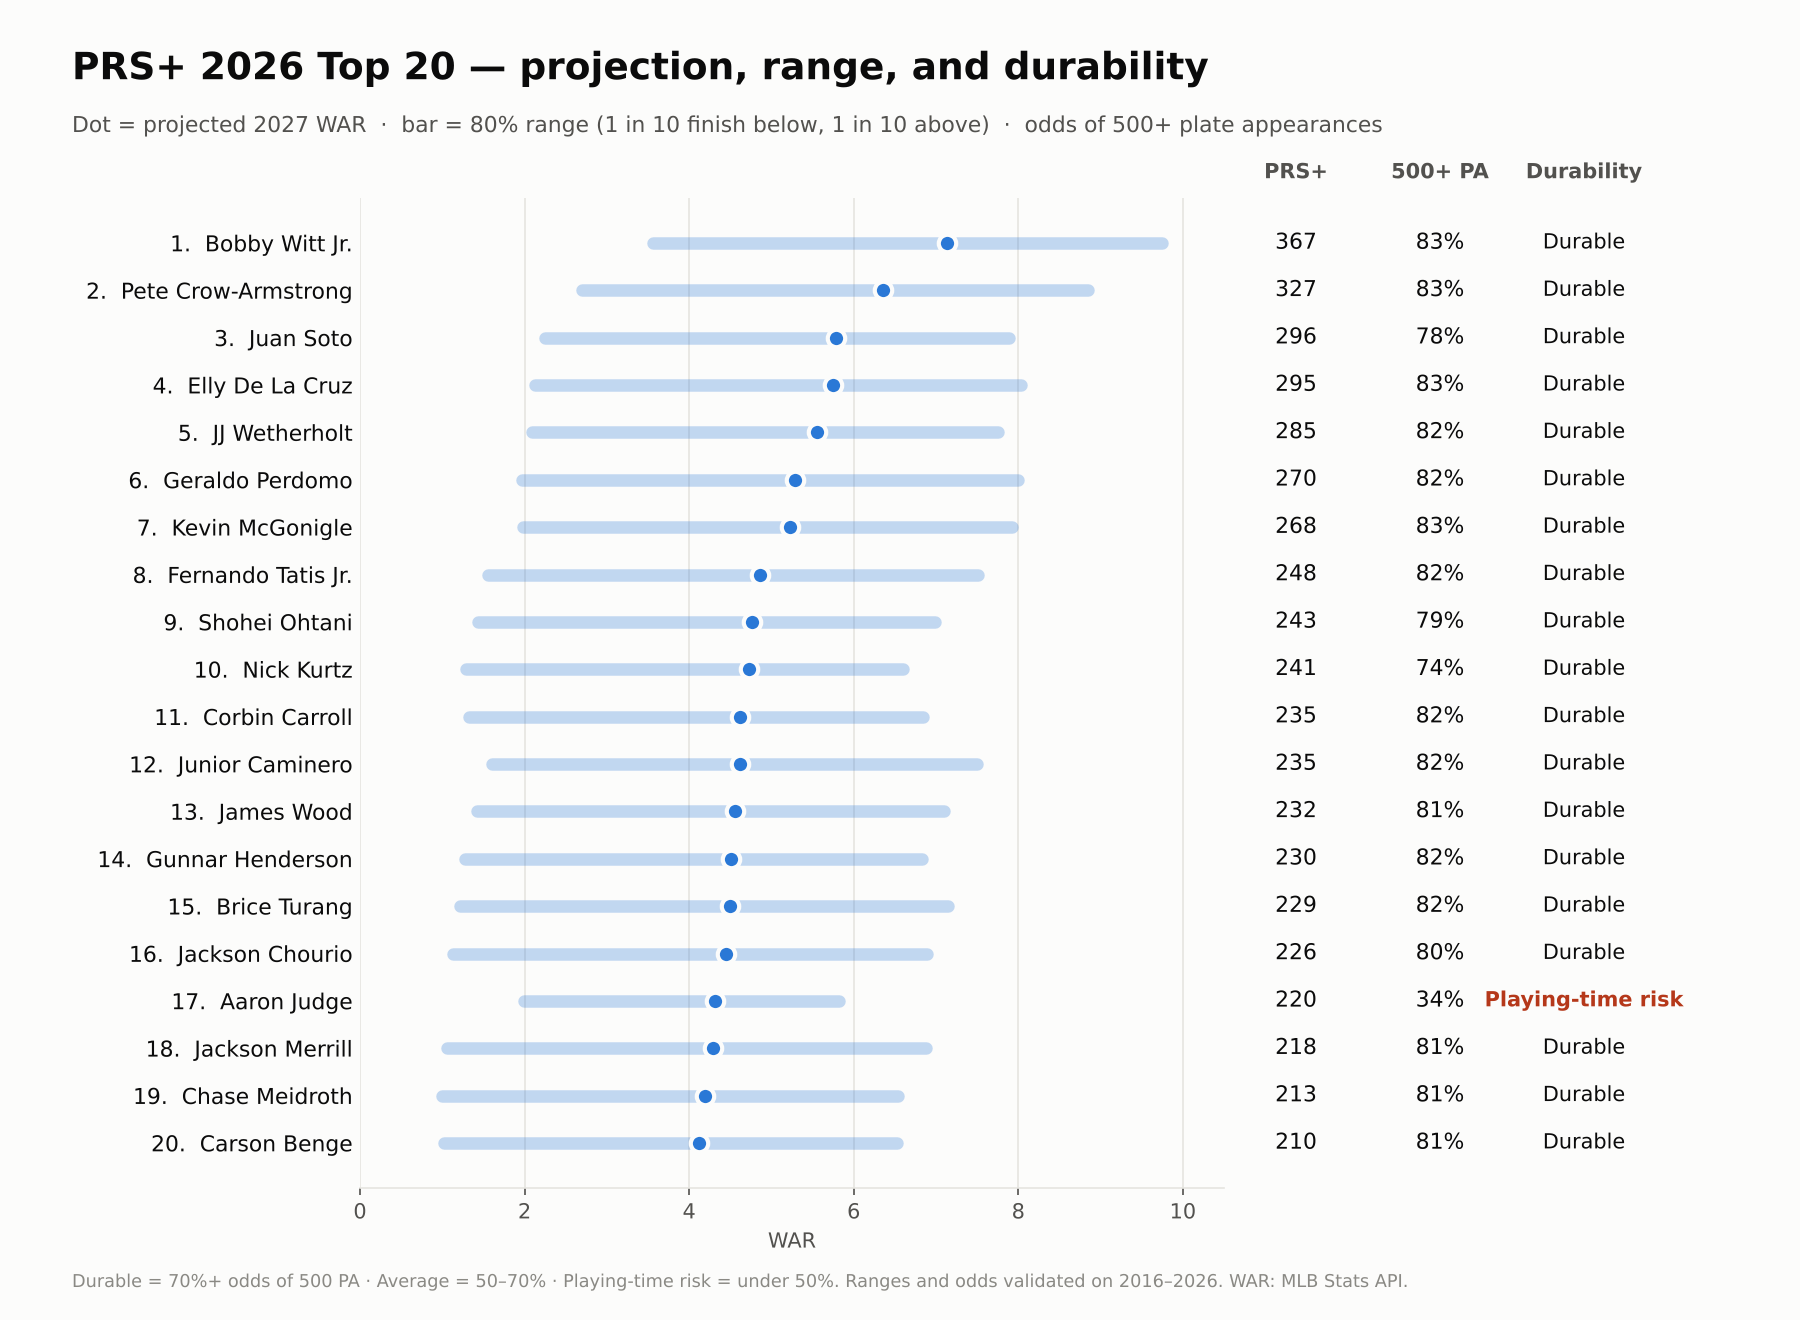
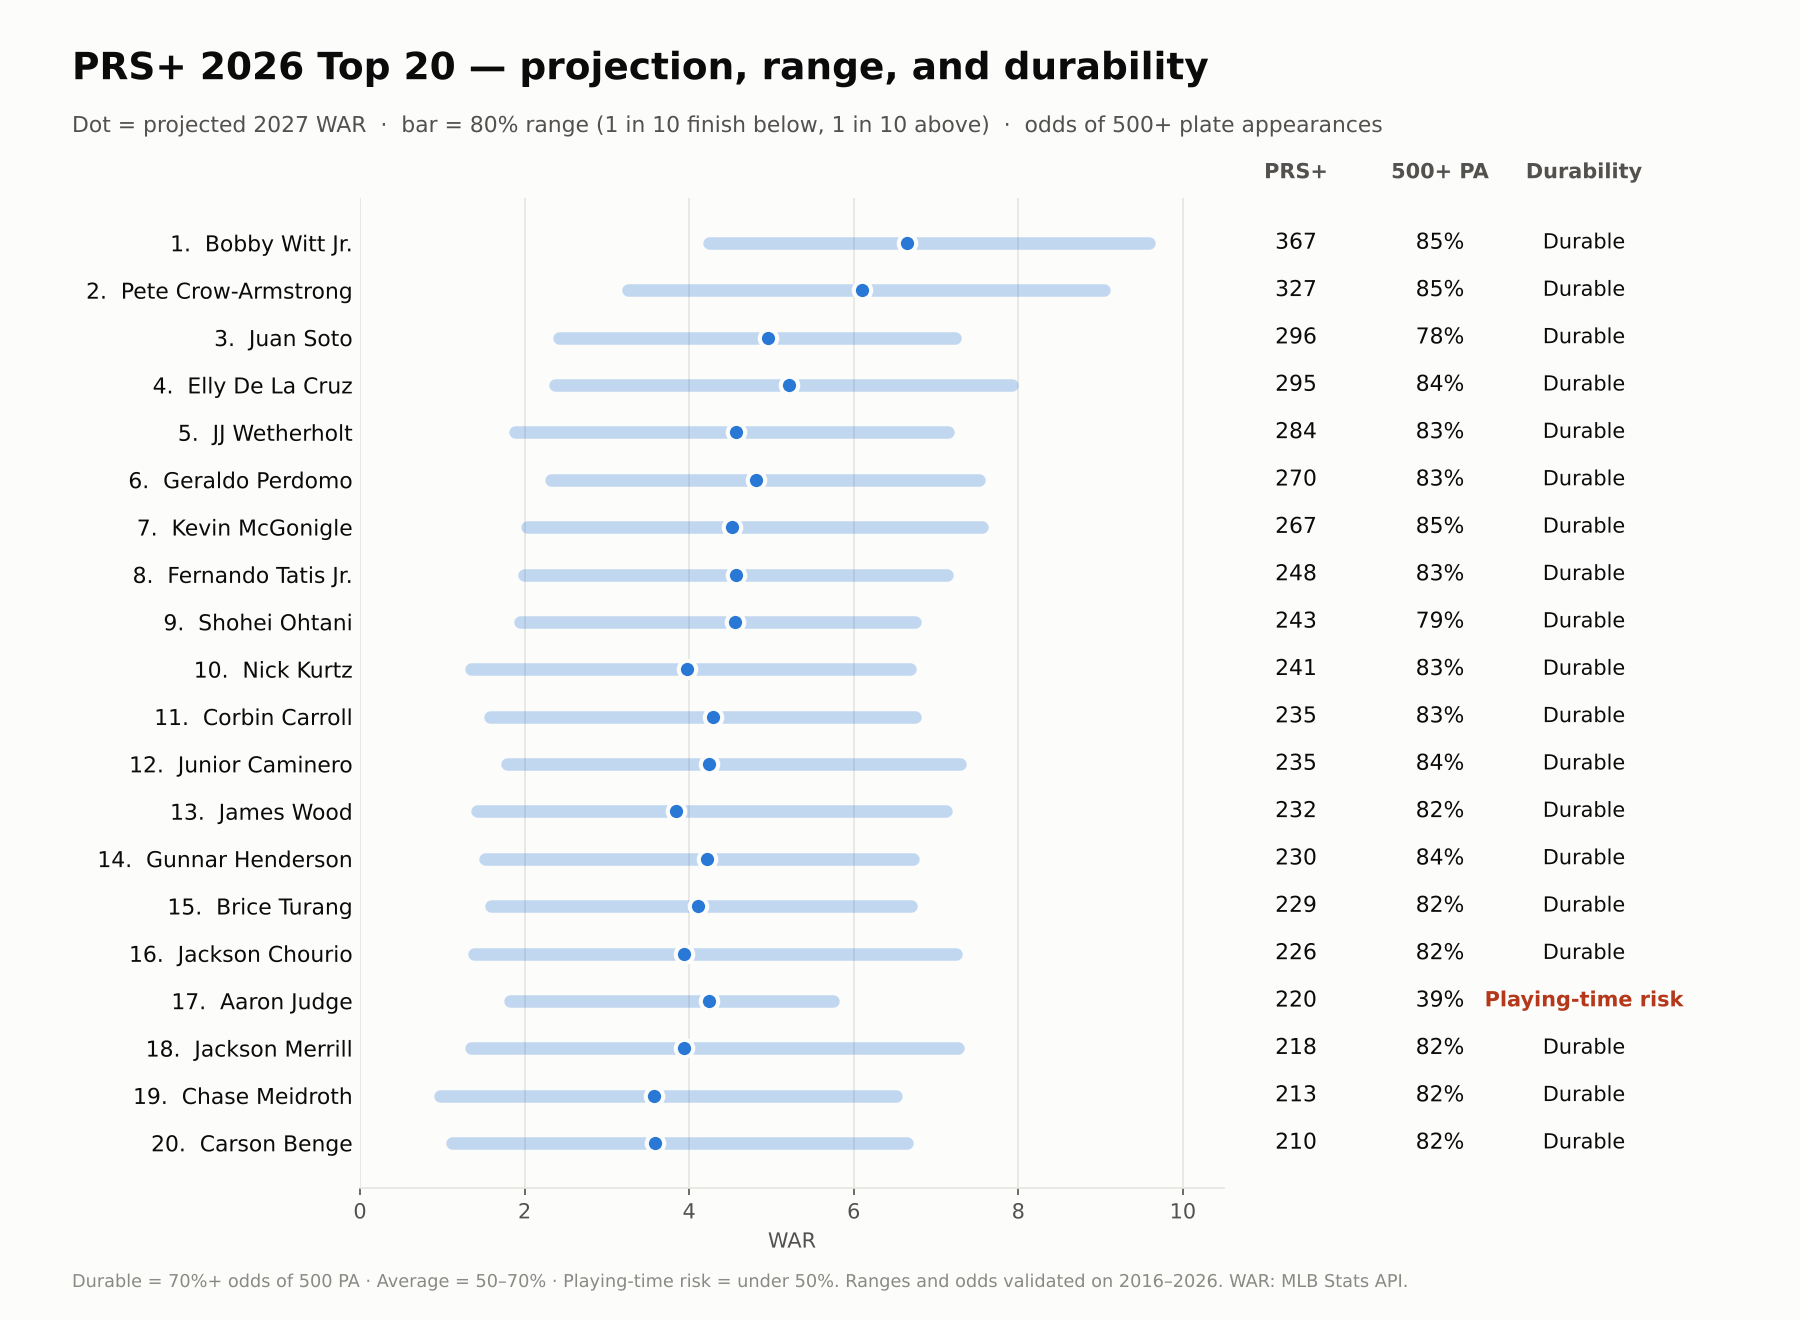
PRS v7 / PRS-P v2: Marcel blend, IL-history odds, recalibrated ranges
README documents the blended projections, injured-list history in the
playing-time/workload odds, updated 2016-2026 range coverage, and remaining
gaps. Refreshed 2026 ranking, risk, and validation charts.

Claude-Session: https://claude.ai/code/session_015YDihW75QbFBqSqo9e9Z9f

diff --git a/prs/PRS_README.md b/prs/PRS_README.md
@@ -57,6 +57,8 @@ All settings were tuned on **2006–2015 only**. The **2016–2026** seasons wer
 - **No age bias.** Marcel underrates players 23 and under by about 0.6 WAR and overrates players 34+ by about 0.35 WAR; PRS+ misses every age group by about the same small amount.
 - **Where it's even:** at the very top of the rankings PRS+ and Marcel identify stars about equally well, and neither can foresee true breakouts — players whose past numbers gave no hint of a 6–7 WAR season.
 
+**Blended projection (v7).** The PRS+ index is pure PRS. The *projected WAR* next to it is now **65% PRS + 35% Marcel**, with each converted to WAR using its 2006–2015 fit. The two systems make different mistakes, so the blend is a little steadier than either one alone. On 2016–2026 the blend improved correlation from 0.669 to 0.673 and the average miss from 0.857 to 0.853 WAR, and it beat PRS alone in 8 of 11 seasons. It's a small gain, but a consistent one.
+
 ## Risk: Range and Durability
 
 Two players can share the same projection with very different risk. Every PRS+ forecast comes with:
@@ -70,9 +72,10 @@ Two players can share the same projection with very different risk. Every PRS+ f
 
 ![Risk validation](PRS_Risk_Validation.png)
 
-- **82% of actual outcomes landed inside the 80% ranges** — 79–84% for every projection tier and every age group, and 80–86% in every full season (2020's 60-game season: 72%).
-- **Playing-time odds match reality:** players given 75% reached 500 PA 77% of the time; players given 32%, 32% of the time.
-- **Durability separates playing time:** Durable players reached 500 PA 79% of the time and fell under 300 PA only 5–9% of the time; Playing-time-risk players reached 500 PA 33–49% of the time.
+- **80% of actual outcomes landed inside the 80% ranges** — 78–81% for every projection tier, 78–82% for every age group, and 78–84% in every full season (2020's 60-game season: 70%). Misses are balanced: for players projected 4+ WAR, 12% finished below the range and 11% above.
+- **Playing-time odds match reality:** players given 75% reached 500 PA 75% of the time; players given 32%, 31% of the time.
+- **Durability separates playing time:** Durable players reached 500 PA 76% of the time and fell under 300 PA only 7% of the time; Average players reached 500 PA 60% of the time; Playing-time-risk players 11%.
+- **Injured-list history (v7):** the odds now use each player's last three seasons of injured-list stints from MLB transaction records (2009 on): days missed, 60-day stints, arm injuries, and whether he ended the season still on the IL. For hitters the gain is real but small (better in 9 of 11 test seasons). IL history did **not** improve WAR forecasts, so it's used for playing time only.
 - **What it can't do:** durability does *not* predict who underperforms their WAR forecast. Among players with similar projections, Durable and Playing-time-risk players lost 2+ WAR at about the same rate — performance swings are mostly noise. So PRS+ reports a range for performance and odds for playing time, and makes no "volatile vs. steady" performance call the data doesn't support.
 
 ### Version history
@@ -81,6 +84,7 @@ Two players can share the same projection with very different risk. Every PRS+ f
 - **v5 (PRS+)** re-tuned everything on 2006–2015, added overall batting value, switched to the PRS+ index, and was tested on 11 unseen seasons against Marcel.
 - **v6** added 80% WAR ranges, playing-time odds, and durability labels, validated on 2016–2026.
 - **PRS-P+** extended the method to pitchers, validated the same way against Marcel, with its own 80% ranges and workload odds.
+- **v7 / PRS-P+ v2** blend projected WAR with Marcel (65/35 for hitters, 90/10 for pitchers), add injured-list history to the playing-time and workload odds, and fix ranges that ran too narrow for the top projections. The top tiers are now sized from the most recent five seasons, pooled across ages, because each age group alone had too few stars.
 
 ## Sample Output — PRS+, 2026
 
@@ -88,12 +92,12 @@ Two players can share the same projection with very different risk. Every PRS+ f
 
 ```
 rank  name                 age   PRS+   proj. WAR   80% range    500+ PA   durability
-1     Bobby Witt Jr.        26    367      7.1      3.6 – 9.7      83%     Durable
-2     Pete Crow-Armstrong   24    327      6.4      2.7 – 8.8      83%     Durable
-3     Juan Soto             27    296      5.8      2.2 – 7.9      78%     Durable
-4     Elly De La Cruz       24    295      5.7      2.1 – 8.0      83%     Durable
-5     JJ Wetherholt         23    285      5.6      2.1 – 7.8      82%     Durable
-17    Aaron Judge           34    220      4.3      2.0 – 5.8      34%     Playing-time risk
+1     Bobby Witt Jr.        26    367      6.6      4.2 – 9.6      85%     Durable
+2     Pete Crow-Armstrong   24    327      6.1      3.3 – 9.0      85%     Durable
+3     Juan Soto             27    296      5.0      2.4 – 7.2      78%     Durable
+4     Elly De La Cruz       24    295      5.2      2.4 – 7.9      84%     Durable
+5     JJ Wetherholt         23    284      4.6      1.9 – 7.1      83%     Durable
+17    Aaron Judge           34    220      4.2      1.8 – 5.8      39%     Playing-time risk
 ```
 
 ### Does PRS+ predict next season? 2025 forecasts vs. actual
@@ -140,6 +144,7 @@ His FIP got worse (home runs doubled, 11 → 20) — a real decline. His ERA got
 - PRS-P+ beats Marcel for **both starters (r 0.60 vs 0.58) and relievers (0.44 vs 0.38)** — relievers are harder to project for everyone, but that's where PRS-P+ gains the most.
 - **Little age bias:** Marcel underrates pitchers 25 and under (+0.17 WAR) and overrates those 35+ (−0.18); PRS-P+ stays within ±0.05 at every age.
 - The edge over Marcel is smaller for pitchers than for hitters — pitcher WAR is noisier year to year — but it is consistent: a smaller average miss in all 11 test seasons.
+- **Blended projection (v2):** projected WAR is **90% PRS-P + 10% Marcel**. It beat PRS-P alone in all 11 test seasons, though by a small margin (r 0.633 → 0.635). The PRS-P+ index itself is unchanged.
 
 ![PRS-P+ 2026 top 10](PRS_P_Rankings_2026.png)
 
@@ -155,16 +160,17 @@ Like the hitter version, every PRS-P+ forecast comes with:
 ![PRS-P+ risk validation](PRS_P_Risk_Validation.png)
 
 Tested on 2016–2026, with each season built only from earlier seasons:
-- **79.6% of outcomes landed inside the 80% ranges** — starters 79%, relievers 80%, 78–80% for most ages. Two honest gaps: the small group of aces projected 2.5+ WAR came in at 76%, and pitchers 35+ at 86% (ranges slightly wide).
-- **Workload odds match reality** for both roles — relievers given 48% reached 50 IP 49% of the time; starters given 33% reached 150 IP 35% of the time. Starter innings have been falling for years, so the odds are recalibrated each season on the most recent three, separately for starters and relievers.
-- **Durability separates workload:** Durable starters reached 150 IP 61% of the time (median 172 IP the next season) vs. 27% for Workload-risk starters (median 103 IP).
+- **79% of outcomes landed inside the 80% ranges** — starters 78%, relievers 79%, 77–79% for most ages. Aces projected 2.5+ WAR now land inside 79% of the time (76% before v2), with misses split evenly above and below. One honest gap remains: pitchers 35+ come in at 86% (ranges slightly wide).
+- **Workload odds match reality** for both roles — relievers given 48% reached 50 IP 49% of the time; starters given 32% reached 150 IP 35% of the time. Starter innings have been falling for years, so the odds are recalibrated each season on the most recent three, separately for starters and relievers. Honest gap: the few starters given 70%+ odds (about 5 a season) reached 150 IP only about 60–65% of the time — starter workloads have a hard ceiling no model fully captures.
+- **Injured-list history (v2)** helps more for pitchers than hitters: workload odds improved in 8 of 11 test seasons. Ending a season on the IL and arm injuries lower the odds most.
+- **Durability separates workload:** Durable starters reached 150 IP 61% of the time vs. 18% for Workload-risk starters; Durable relievers reached 50 IP 65% of the time vs. 16%.
 - As with hitters, durability predicts **innings, not performance** — it doesn't tell you who will underperform their WAR forecast.
 
 ### Runs-allowed range
 
-Because ERA-based results swing more than FIP-based ones, each pitcher also gets an **80% range for runs-allowed WAR** (RA9-WAR — WAR built from the runs that actually scored). It's centered on the same projection, sized and tested the same way, and it's about 28% wider than the FIP-based range. In the 2026 top 20 chart above it's the thin line under each bar.
+Because ERA-based results swing more than FIP-based ones, each pitcher also gets an **80% range for runs-allowed WAR** (RA9-WAR — WAR built from the runs that actually scored). It's centered on a runs-allowed projection (same blend, converted to runs-allowed WAR) and sized and tested the same way, and it's about 30% wider than the FIP-based range. In the 2026 top 20 chart above it's the thin line under each bar.
 
-- **2016–2026 test:** 78.7% of runs-allowed outcomes landed inside (starters 78%, relievers 79%). The small group of aces projected 2.5+ WAR came in narrow at 74%.
+- **2016–2026 test:** 78.9% of runs-allowed outcomes landed inside (starters 79%, relievers 79%). Aces projected 2.5+ WAR: 78% (74% before v2).
 - **Judged on runs allowed,** PRS-P+ still edges Marcel over the 11 test seasons (r 0.553 vs. 0.545), though the margin is thin.
 
 ### 2026 report card

diff --git a/STATUS.md b/STATUS.md
@@ -2,16 +2,16 @@
 
 ## Current state
 
-Public sports analytics portfolio: PRS+ (README and charts only; code kept private), Infield Weekly Report (overhauled, verified on live data), Yahoo pitcher tracker, learning files. PRS+ (v6) is an index (100 = average regular) backtested over 21 seasons — beats Marcel in 9 of 11 unseen seasons — with validated 80% WAR ranges and playing-time odds. PRS-P+ (pitchers) beats Marcel in 10 of 11 unseen seasons, also with validated ranges and workload odds. PR #1 (infield report overhaul + PRS+ docs/charts) merged to main 2026-10-07.
+Public sports analytics portfolio: PRS+ (README and charts only; code kept private), Infield Weekly Report, Yahoo pitcher tracker, learning files. PRS+ v7 (hitters) and PRS-P+ v2 (pitchers) are backtested over 21 seasons against Marcel. Projected WAR now blends PRS with Marcel. Playing-time and workload odds use injured-list history. The 80% ranges are recalibrated: 80% coverage for hitters, 79% for pitchers, and 79% for pitcher aces.
 
 ## Last change
 
-2026-10-09 — Graded preseason 2026 PRS-P against the 2026 season; found the FIP-based vs runs-allowed WAR gap (Skenes: 4.2 vs 3.0). Labeled PRS-P as FIP-based everywhere and added a validated 80% runs-allowed WAR range (78.7% coverage 2016–26). PRS README: "Which WAR?" note, "What is FIP?" explainer, runs-allowed range, 2026 report card; charts relabeled. Dashboard updated with both ranges and a FIP explainer.
+2026-10-13 — Built PRS v7 and PRS-P v2 (private scripts sent to Dave, not in the repo). Changes: Marcel blend (65/35 for hitters, 90/10 for pitchers); IL-history features for odds only, since they didn't help WAR forecasts; top-tier ranges pooled across ages using the last 5 seasons. Reran the 2026 rankings, refreshed 6 charts, and updated PRS_README (blend, IL history, new coverage numbers, honest gaps, version history). New dashboard CSVs are uploaded to the dashboard artifact but not yet switched on (needs Dave's OK).
 
 ## Next step
 
-After the 2026 postseason ends: rerun `prs_v6.py` and `prs_p.py` with final 2026 data and publish 2027 preseason PRS+ and PRS-P+ rankings (with risk ranges) as a dated GitHub release, to be graded after the 2027 season, and refresh the dashboard's data files with the final numbers. Nothing to do until then.
+Switch the dashboard's datasets (hitters, pitchers, risk_coverage, workload_calibration) to the new v7/v2 CSV assets already uploaded. Then, after the 2026 postseason, rerun `prs_v7.py` and `prs_p2.py` with final data and publish 2027 preseason rankings as a dated GitHub release.
 
 ## Blockers
 
-Waiting for the 2026 postseason to finish before posting preseason rankings (Dave's call).
+Dashboard data swap is waiting on Dave's approval. Preseason rankings are waiting for the postseason to end (Dave's call).
